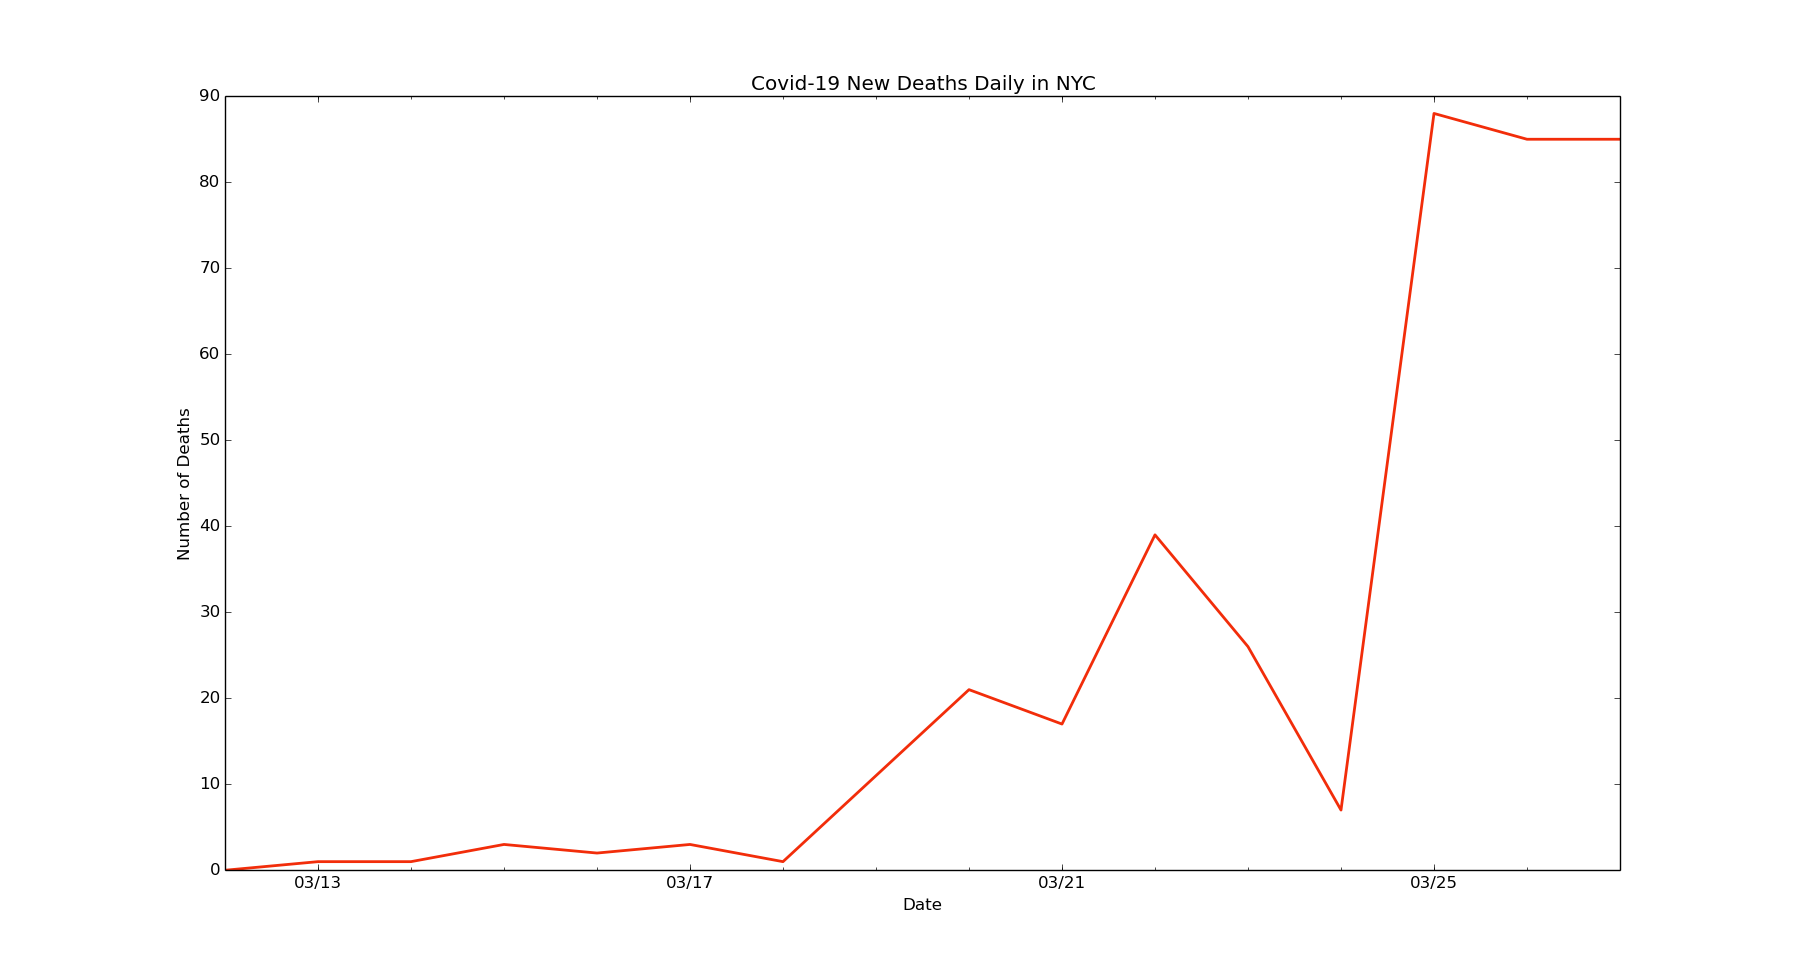
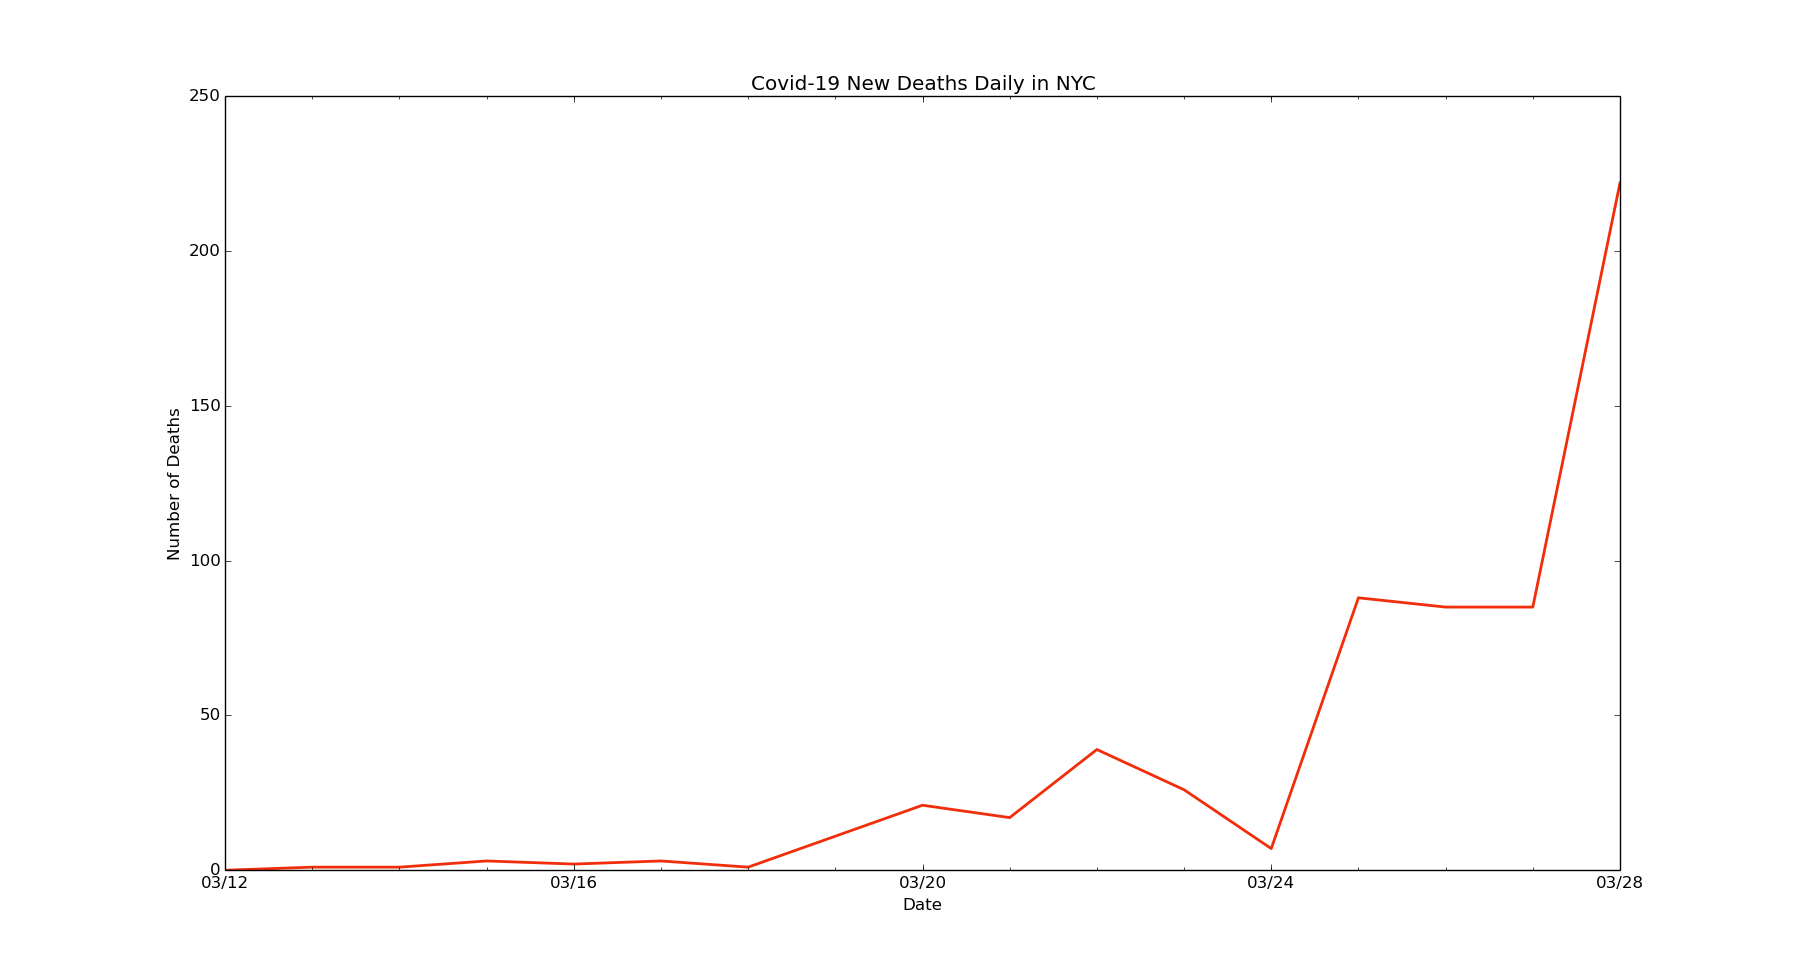
"chore: Update NYC data and graphs"

diff --git a/nyc/nyc-new-cases.py b/nyc/nyc-new-cases.py
@@ -6,7 +6,7 @@ import matplotlib.dates as mdates
 import matplotlib.ticker as ticker
 from matplotlib.dates import MO, TU, WE, TH, FR, SA, SU
 
-dates = ['2/29/2020', '3/1/2020', '3/2/2020', '3/3/2020', '3/4/2020', '3/5/2020', '3/6/2020', '3/7/2020', '3/8/2020', '3/9/2020', '3/10/2020', '3/11/2020', '3/12/2020', '3/13/2020', '3/14/2020', '3/15/2020', '3/16/2020', '3/17/2020', '3/18/2020', '3/19/2020', '3/20/2020', '3/21/2020', '3/22/2020', '3/23/2020', '3/24/2020', '3/25/2020', '3/26/2020', '3/27/2020']
+dates = ['2/29/2020', '3/1/2020', '3/2/2020', '3/3/2020', '3/4/2020', '3/5/2020', '3/6/2020', '3/7/2020', '3/8/2020', '3/9/2020', '3/10/2020', '3/11/2020', '3/12/2020', '3/13/2020', '3/14/2020', '3/15/2020', '3/16/2020', '3/17/2020', '3/18/2020', '3/19/2020', '3/20/2020', '3/21/2020', '3/22/2020', '3/23/2020', '3/24/2020', '3/25/2020', '3/26/2020', '3/27/2020', '3/28/2020']
 
 # format dates
 x_values = [datetime.datetime.strptime(d, "%m/%d/%Y").date() for d in dates]
@@ -24,7 +24,7 @@ ax.xaxis.set_minor_locator(mdates.WeekdayLocator(byweekday=(MO, TU, WE, TH, FR, 
 ax.get_yaxis().set_major_formatter(ticker.FuncFormatter(lambda x, pos: format(int(x), ',')))
 
 # new cases by day
-new_cases = [0, 1, 0, 0, 0, 3, 0, 7, 9, 7, 5, 23, 47, 59, 115, 60, 485, 109, 1086, 1606, 2068, 2432, 2649, 2355, 2478, 4414, 3101, 3585]
+new_cases = [0, 1, 0, 0, 0, 3, 0, 7, 9, 7, 5, 23, 47, 59, 115, 60, 485, 109, 1086, 1606, 2068, 2432, 2649, 2355, 2478, 4414, 3101, 3585, 4033]
 
 # text labels
 plt.title('Covid-19 New Cases Each Day in NYC')

diff --git a/nyc/nyc-deaths-new.py b/nyc/nyc-deaths-new.py
@@ -6,7 +6,7 @@ import matplotlib.dates as mdates
 import matplotlib.ticker as ticker
 from matplotlib.dates import MO, TU, WE, TH, FR, SA, SU
 
-dates = ['3/12/2020', '3/13/2020', '3/14/2020', '3/15/2020', '3/16/2020', '3/17/2020', '3/18/2020', '3/19/2020', '3/20/2020', '3/21/2020', '3/22/2020', '3/23/2020', '3/24/2020', '3/25/2020', '3/26/2020', '3/27/2020']
+dates = ['3/12/2020', '3/13/2020', '3/14/2020', '3/15/2020', '3/16/2020', '3/17/2020', '3/18/2020', '3/19/2020', '3/20/2020', '3/21/2020', '3/22/2020', '3/23/2020', '3/24/2020', '3/25/2020', '3/26/2020', '3/27/2020', '3/28/2020']
 
 # format dates
 x_values = [datetime.datetime.strptime(d, "%m/%d/%Y").date() for d in dates]
@@ -24,7 +24,7 @@ ax.xaxis.set_minor_locator(mdates.WeekdayLocator(byweekday=(MO, TU, WE, TH, FR, 
 ax.get_yaxis().set_major_formatter(ticker.FuncFormatter(lambda x, pos: format(int(x), ',')))
 
 # new deaths by day
-new_deaths = [0, 1, 1, 3, 2, 3, 1, 11, 21, 17, 39, 26, 7, 88, 85, 85]
+new_deaths = [0, 1, 1, 3, 2, 3, 1, 11, 21, 17, 39, 26, 7, 88, 85, 85, 222]
 
 # text labels
 plt.title('Covid-19 New Deaths Daily in NYC')
